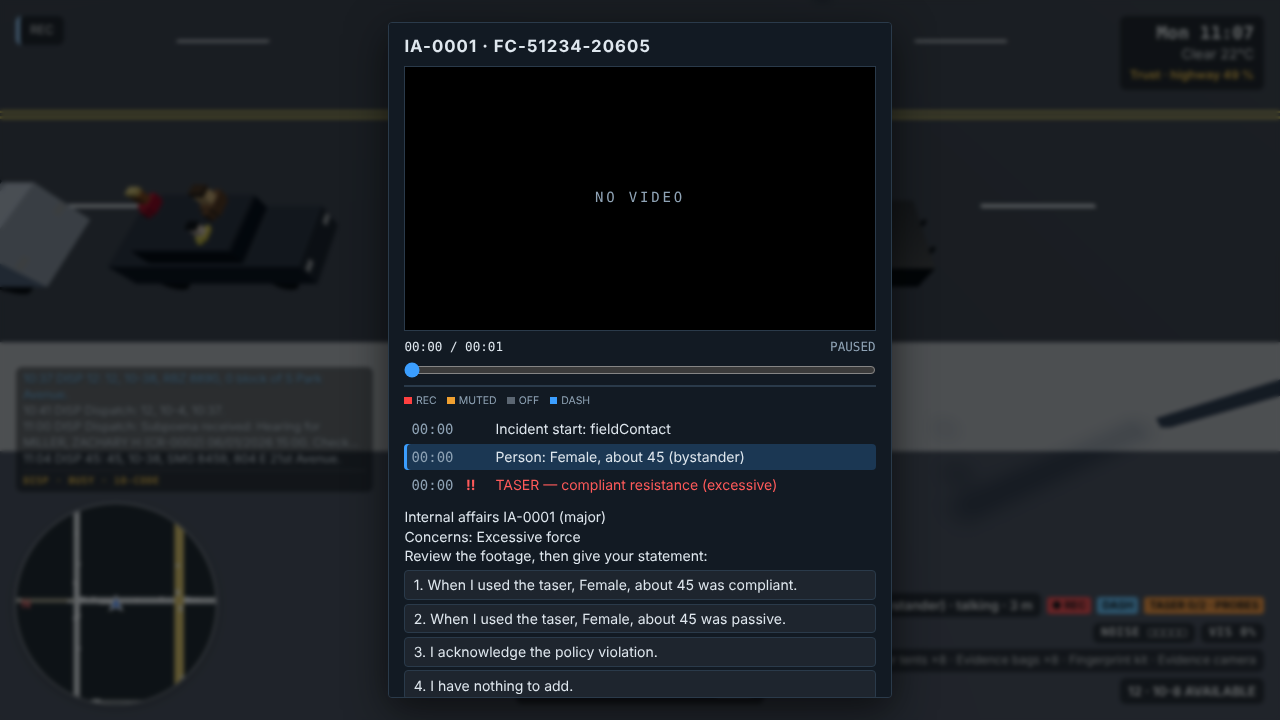
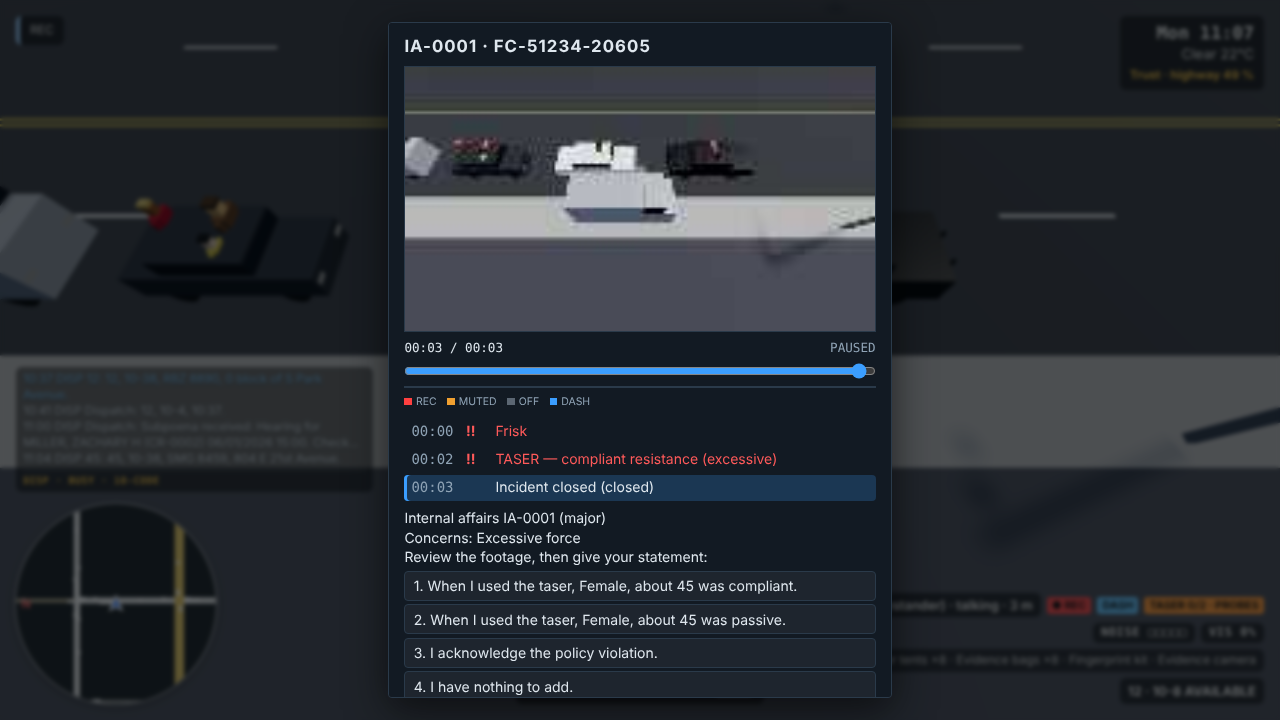
WIP Phase 5: integrated
Claude-Session: https://claude.ai/code/session_01Rvcmrw7QNVTdDc1VKr5xNY

diff --git a/docs/PHASES.md b/docs/PHASES.md
@@ -362,14 +362,14 @@ Status: ✅ complete. Screenshots (taken by the smoke test): `docs/screenshots/p
 - ✅ **Console**: `law ruleset [id]`, `law explain [incident]`, `law list`, `jurisdiction`, `legal`, `incident list|show|close`, `force test|tool|stats`, `court next|list|advance|attend`, `ia list|show|review|statement`, `trust [district [delta]]`, `career`, `cam mute|dash|status`, `media stats|clear|prune`.
 - ✅ **Determinism**: a scripted stop (a speeding car seen before the lights, bodycam on, odor, consent PBT, the driver fights, a TASER application, cuffs, rights, a question in custody, a booking that opens a court case, the call cleared) replays to bit-identical v7 saves; a v7 save made mid-incident continues exactly (force, incidents, conduct, court, CAD, people); a v6 save loads (incidents empty, trust at its baselines) and a stop played on it closes an incident (`test/game/phase5.test.ts`). The legal engine has 235 unit tests driven by the JSON rulesets (suspicion, Terry stop and frisk scope, searches, consent, exigency, Miranda, force and the duty to intervene, pursuit policy, recording, evidence and taint, report grading, a 0.4 ms / 600-event performance test), conduct 100+ (trust math, IA triggers, discipline ladder, commendations), the court 155 (cross-examination generation, testimony scoring, motion rulings, verdicts).
 - ✅ **End-to-end flows verified in the real game** (`npm run smoke`, real keys and mouse where they exist): **C** cycles to the TASER (HUD chip `TASER 2/2`), a speeding car pulled over with the bodycam on, ID, odor and a consent PBT, the driver steps out and fights, **left mouse** fires the TASER and the HUD shows the verdict, arrest and booking (two cases: a plea and a scheduled hearing), `law explain` with citations, the MDT report form with the statements checklist graded, the Career and Community tabs, **the courtroom answered with Enter / 1** to a verdict, an unlawful frisk and an excessive TASER on a bystander that open an IA case, bodycam snapshots taken from the live canvas, the evidence review with the statement footer, a v7 save and load, the console commands.
-- ✅ NUMBER_OF_TESTS unit and integration tests (NUMBER_OF_FILES files) pass under `npm run check`.
+- ✅ 3 906 unit and integration tests (341 files) pass under `npm run check`.
 - ✅ No third-party assets, no new dependencies; `docs/ASSETS.md` stays empty.
 
 ### How to run
 ```
 npm install
 npm run dev        # http://localhost:5173
-npm run check      # tsc + eslint + vitest (NUMBER_OF_TESTS tests)
+npm run check      # tsc + eslint + vitest (3 906 tests)
 npm run build      # production bundle in dist/
 npm run smoke      # headless browser test (Phases 0-5) + docs/screenshots/phase1*.png ... phase5*.png
 ```
@@ -397,10 +397,10 @@ The main menu has a **Jurisdiction** select (generic or strict state law); `law 
 7. Console: `jurisdiction`, `incident list`, `force stats`, `cam mute on`, `media stats`.
 
 ### Performance
-- Node (seed 4242, a whole session, 1200 fixed steps after a 120-step warm-up): PERF_NODE.
+- Node (seed 4242, a whole session, 1200 fixed steps after a 120-step warm-up): 1.07 ms per fixed step for everything (physics, ~130 traffic cars, npc, dispatch, interiors, tactical, the Phase 5 systems). Design budgets (§17): force 0.01 ms (measured 0.0065 ms per step with the registry's own timing overhead), incidents 0.01 ms (0.0032), conduct 0.005 ms (0.0021), court 0.005 ms (0.0020).
 - Legal assessment: ~0.4 ms for a 600-event log (CI asserts < 2 ms); the recorder, conduct and court steps read 0.0 ms in the smoke perf overlay (event-driven; per-game-minute work only); the force step is idle-free of allocations.
 - Snapshots: one 160x90 `drawImage` + async `toBlob` per 3 sim seconds of recording (~2-4 KiB each), IndexedDB writes off the frame; the HUD additions are DOM writes on change at the 10 Hz HUD rate.
-- Headless Chromium with SwiftShader (1280x720, software GL, ~2 fps, so these are draw-call and sim counts, not frame rates): PERF_BROWSER.
+- Headless Chromium with SwiftShader (1280x720, software GL, ~2 fps, so these are draw-call and sim counts, not frame rates): the Phase 5 patrol scene draws in 73 draw calls (140k triangles, the cap is 300); sim cost per frame (5 steps) 3.1 ms across the smoke phases (npc 0.1 ms, scene 0.0 ms); the perf overlay shows `force`, `incidents` and `media` extras next to the Phase 1-4 ones; one bodycam snapshot is ~2 KiB.
 - Save size: a v7 save with two logs (22 and 5 events), two cases and one IA case adds a few KiB; the worst case (24 closed logs x 600 events) stays below 1.5 MiB.
 
 ### Known limitations
